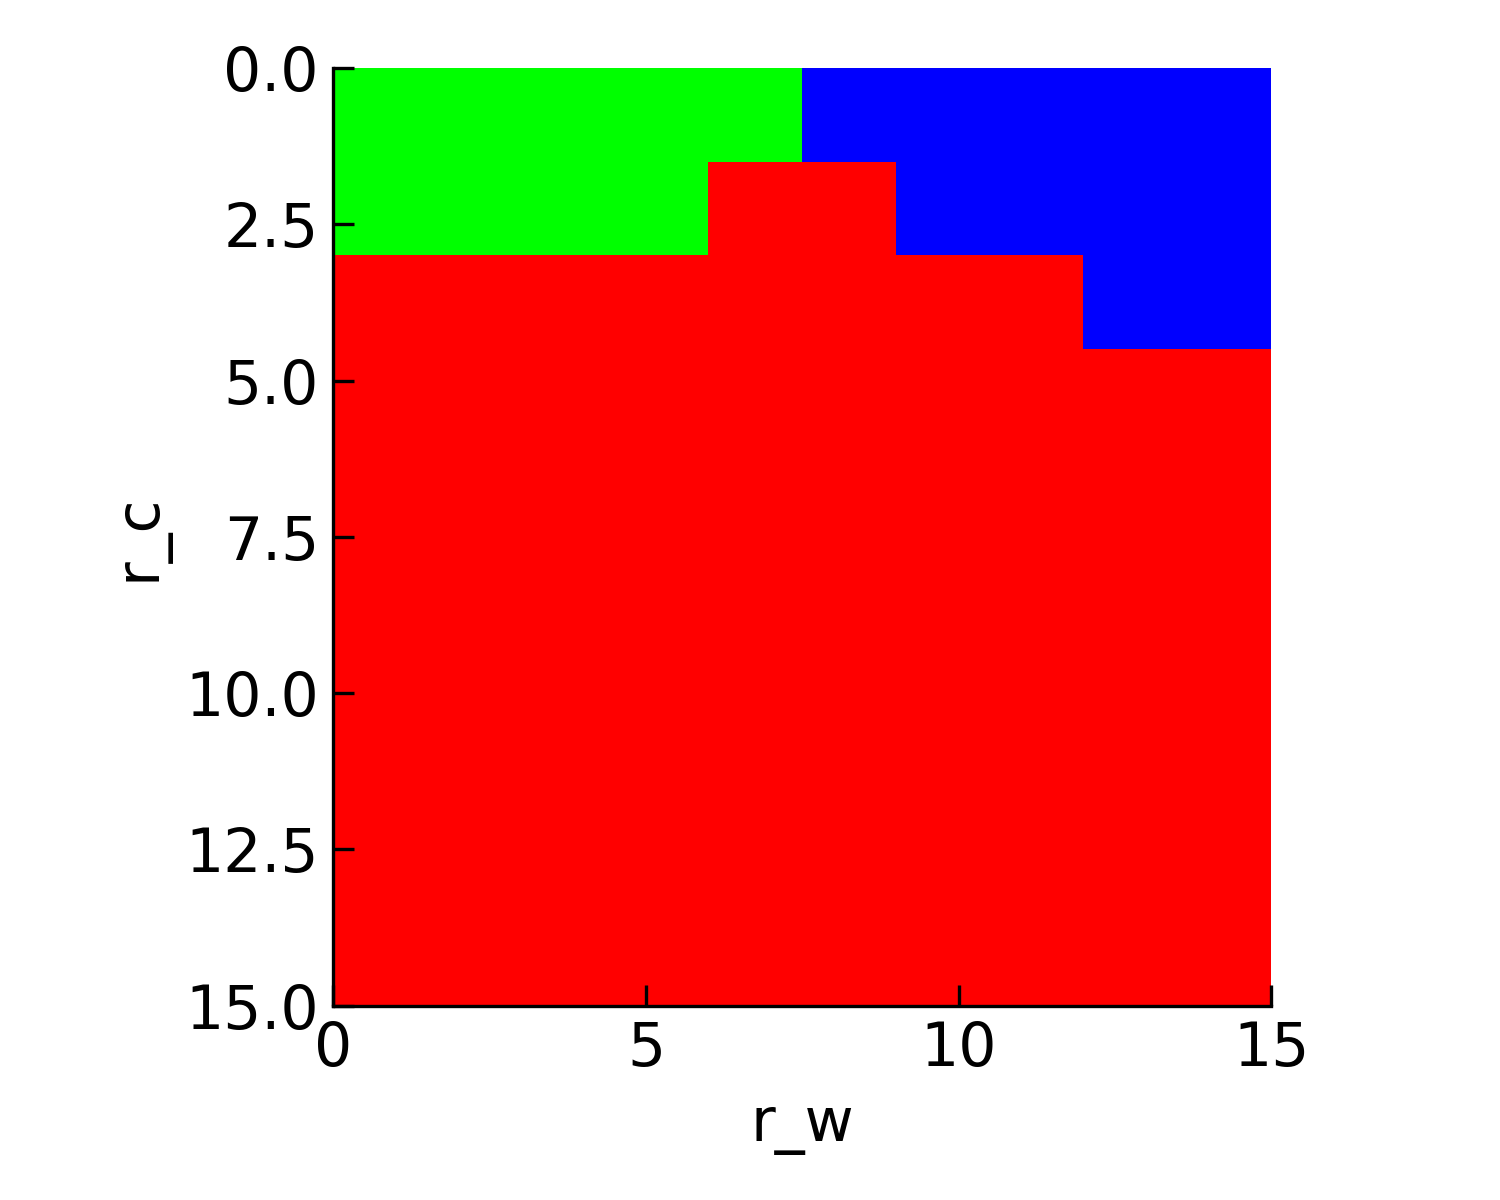
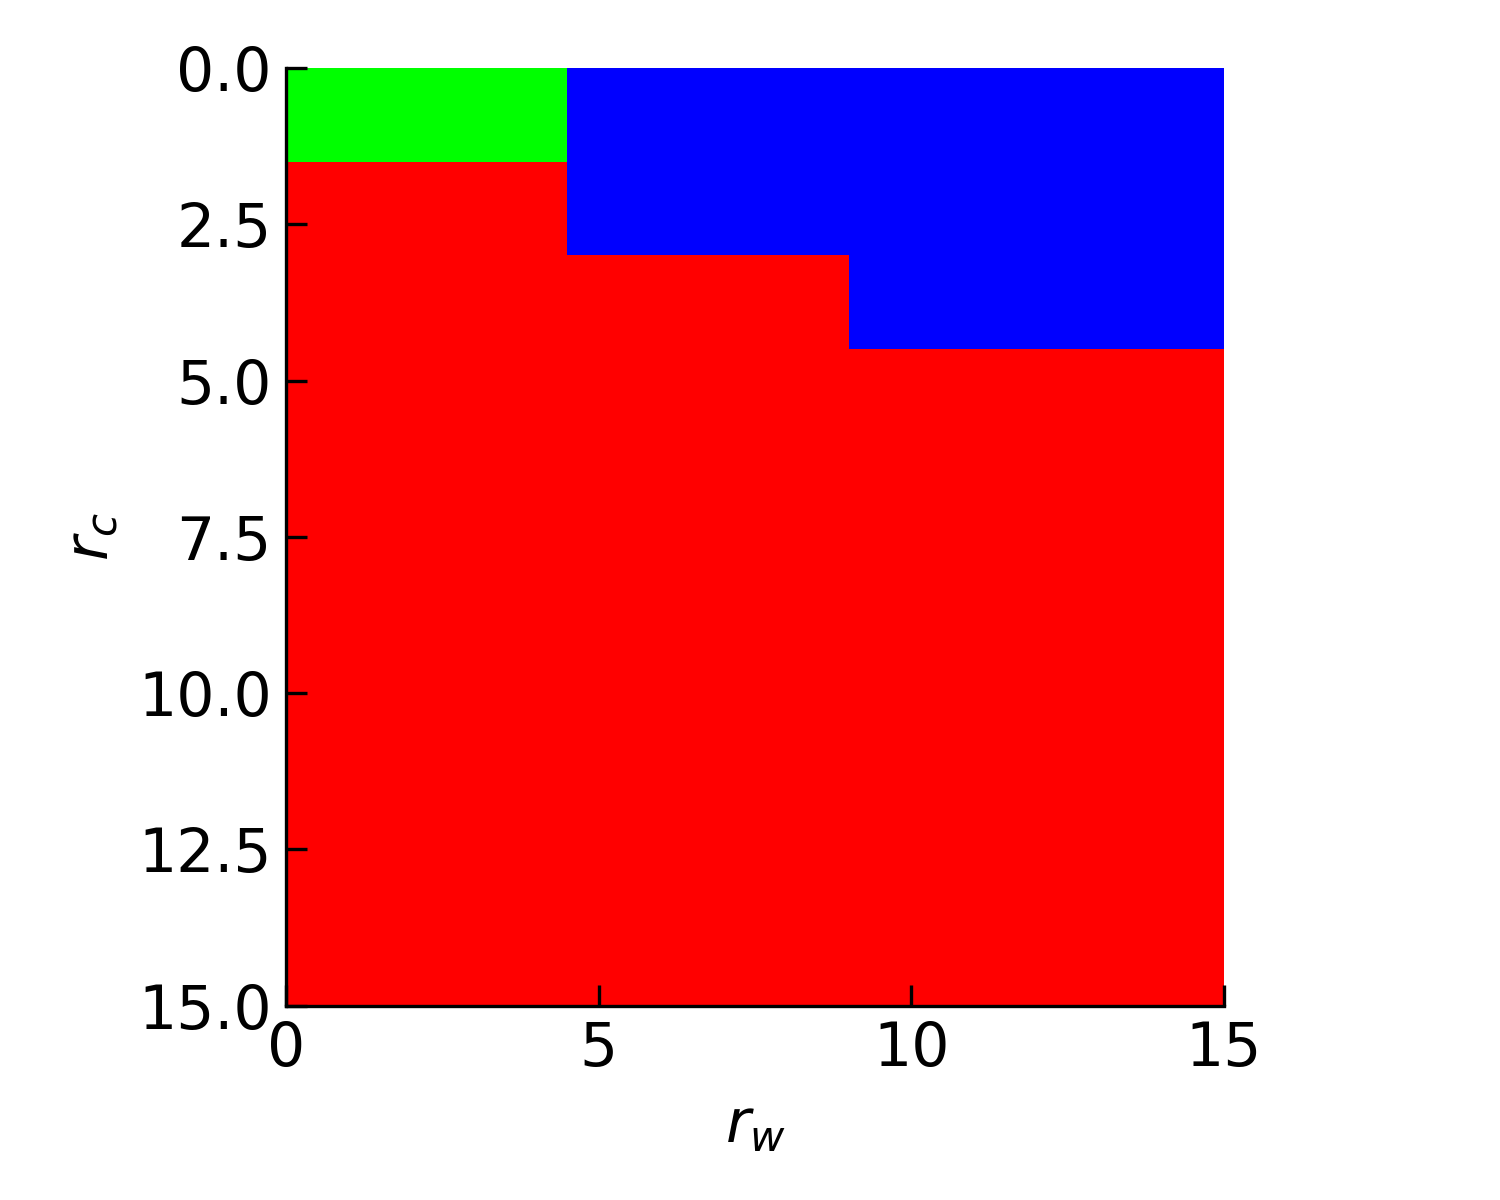
Updated latex plot

diff --git a/src/main.py b/src/main.py
@@ -52,8 +52,8 @@ if args.sim_mart_vaq:
     # First convert to gt
     meta_sim = MetaSimulator(
         network_name=nx_network.name,
-        ratio_honest=0.9,
-        ratio_wolf=0.01,
+        ratio_honest=0.33,
+        ratio_wolf=0.33,
         random_fit_init=False,
     )
 
@@ -62,13 +62,13 @@ if args.sim_mart_vaq:
         delta=0.7,  # no acting for wolfs
         gamma=0.8,
         tau=0.1,  # no fitness sharing between wolf to criminal
-        beta_s=1.5,
-        beta_h=1.5,
-        beta_c=1.5,
+        beta_s=5,
+        beta_h=5,
+        beta_c=5,
         c_c=1,  # no benefits from criminals/ they still act
-        r_c=1,
+        r_c=0,
         c_w=1,
-        r_w=1,
+        r_w=15,
         r_h=1,
         temperature=10,
         mutation_prob=0.0001,  # only fermi function
@@ -152,20 +152,25 @@ if args.phase_diagram:
         "4": "delta",
         "5": "gamma",
         "6": "tau",
+        "7": "r_w",
+        "8": "r_c",
     }
 
     print("Which parameters to test? Please give a number:")
     for k, v in parameter_dict.items():
-
         print(f"{k:<2}|{v:<15}")
-    param_1 = input("Parameter 1:")
-    param_2 = input("Parameter 2:")
+    param_x = input("Parameter 1:\n")
+    param_y = input("Parameter 2:\n")
+    x_input = input("Range of parameter 1:  example: 0,5\n")
+    x_input_tpl = tuple(int(x) for x in x_input.split(","))
+    y_input = input("Range of parameter 2:  example: 0,5\n")
+    y_input_tpl = tuple(int(x) for x in y_input.split(","))
 
-    assert param_1 != param_2, " Parameter can't be the same!"
+    assert param_x != param_y, " Parameter can't be the same!"
     # create a mesh grid
-    nx, ny = (15, 15)
-    x_range = np.linspace(0, 1, nx)
-    y_range = np.linspace(0, 1, ny)
+    nx, ny = (10, 10)
+    x_range = np.linspace(x_input_tpl[0], x_input_tpl[1], nx)
+    y_range = np.linspace(y_input_tpl[0], y_input_tpl[1], ny)
     grid = np.empty((nx, ny), dtype=object)
 
     # init simulation
@@ -177,15 +182,15 @@ if args.phase_diagram:
 
     meta_sim = MetaSimulator(
         network_name=nx_network.name,
-        ratio_honest=0.9,
-        ratio_wolf=0.01,
-        random_fit_init=True,
+        ratio_honest=0.33,
+        ratio_wolf=0.33,
+        random_fit_init=False,
     )
     for x_i in range(0, nx):
         for y_i in range(0, ny):
             variable_dict = dict(
                 zip(
-                    [parameter_dict[param_1], parameter_dict[param_2]],
+                    [parameter_dict[param_x], parameter_dict[param_y]],
                     [x_range[x_i], y_range[y_i]],
                 )
             )
@@ -194,19 +199,54 @@ if args.phase_diagram:
                 **variable_dict,
                 mutation_prob=0.0001,  # only fermi function
             )
-            network, data_collector = simulators.play(
-                network=simulators.network, rounds=3000, n_groups=1, ith_collect=3000
+            data_collector = simulators.avg_play(
+                network=simulators.network,
+                rounds=7500,
+                n_groups=1,
+                ith_collect=7500,
+                repetition=5,
             )
 
             # Only look at the ratio and get the status with the highest ratio at the end
             filtered_dict = {
                 k: v
                 for k, v in data_collector.items()
-                if k in ["ratio_criminal", "ratio_wolf", "ratio_honest"]
+                if k in ["mean_ratio_criminal", "mean_ratio_wolf", "mean_ratio_honest"]
             }
-            print(max(filtered_dict, key=lambda x: filtered_dict[x][-1]))
-            grid[x_i, y_i] = max(filtered_dict, key=lambda x: filtered_dict[x][-1])
 
-    plotter.plot_phase_diag(
-        grid, x_range, y_range, parameter_dict[param_1], parameter_dict[param_2]
+            grid[x_i, y_i] = max(filtered_dict, key=lambda x: filtered_dict[x][-1])
+            print(grid[x_i, y_i])
+
+    ax = plotter.plot_phase_diag(
+        grid, x_range, y_range, parameter_dict[param_x], parameter_dict[param_y]
     )
+
+    if args.save:
+        e = datetime.datetime.now()
+        timestamp = e.strftime("%d-%m-%Y-%H-%M")
+        simulators_str_dict = dict(
+            {str(key): str(value) for key, value in simulators.__dict__.items()}
+        )
+        meta_str_sim = dict(
+            {str(key): str(value) for key, value in meta_sim.__dict__.items()}
+        )
+        meta = PngImagePlugin.PngInfo()
+        for x in simulators_str_dict:
+            meta.add_text(x, simulators_str_dict[x])
+
+        fig_name = (
+            plotter.savig_dir
+            + "phase_diag_"
+            + param_x
+            + "_"
+            + param_y
+            + "_"
+            + timestamp
+            + ".png"
+        )
+        plt.savefig(fig_name, dpi=300)
+        # Add the meta to it
+        im = Image.open(fig_name)
+        im.save(fig_name, "png", pnginfo=meta)
+    else:
+        plt.show()

diff --git a/src/utils/plotter.py b/src/utils/plotter.py
@@ -38,6 +38,10 @@ class Plotter(ConfigParser):
         plt.rcParams["xtick.minor.size"] = 3.0
         plt.rcParams["ytick.major.size"] = 5.0
         plt.rcParams["ytick.minor.size"] = 3.0
+        plt.rcParams["axes.labelsize"] = "x-large"
+        plt.rcParams["axes.titlesize"] = "x-large"
+        plt.rcParams["xtick.labelsize"] = "x-large"
+        plt.rcParams["ytick.labelsize"] = "x-large"
 
         # Change the default color list
         mpl.rcParams["axes.prop_cycle"] = cycler(color="gbrgmyc")
@@ -256,8 +260,8 @@ class Plotter(ConfigParser):
         grid: np.ndarray,
         x_range: np.ndarray,
         y_range: np.ndarray,
-        param1: str,
-        param2: str,
+        param_x: str,
+        param_y: str,
     ) -> plt.Axes:
         """Generate a phase diagram of param1 and param2.
 
@@ -268,8 +272,8 @@ class Plotter(ConfigParser):
                                     each combination of param1 and param2
             x_range (np.ndarray) : range of x
             y_range (np.ndarray) : range of
-            param1 (str): parameter 1 of the model
-            parma2 (str): parameter 2 of the model
+            param_x (str): parameter x of the model
+            parma_y (str): parameter y of the model
 
         Returns:
             plt.Axes: phase diagram figure
@@ -278,33 +282,36 @@ class Plotter(ConfigParser):
         rgb_array = np.zeros((grid.shape[0], grid.shape[1], 3), dtype=int)
         for x_i in range(0, grid.shape[0]):
             for y_i in range(0, grid.shape[1]):
-                if grid[x_i, y_i] == "ratio_criminal":
+                if grid[x_i, y_i] == "mean_ratio_criminal":
                     rgb_array[x_i, y_i, 0] = 255
                     rgb_array[x_i, y_i, 1] = 0
                     rgb_array[x_i, y_i, 2] = 0
-                elif grid[x_i, y_i] == "ratio_wolf":
+                elif grid[x_i, y_i] == "mean_ratio_wolf":
                     rgb_array[x_i, y_i, 0] = 0
                     rgb_array[x_i, y_i, 1] = 0
                     rgb_array[x_i, y_i, 2] = 255
-                elif grid[x_i, y_i] == "ratio_honest":
+                elif grid[x_i, y_i] == "mean_ratio_honest":
                     rgb_array[x_i, y_i, 0] = 0
                     rgb_array[x_i, y_i, 1] = 255
                     rgb_array[x_i, y_i, 2] = 0
 
-        print(grid)
-        print(rgb_array)
         _, ax = plt.subplots()
         ax.imshow(
-            rgb_array, extent=[min(x_range), max(x_range), max(y_range), min(y_range)]
+            rgb_array, extent=[min(y_range), max(y_range), max(x_range), min(x_range)]
         )
 
         cmap = {1: [1, 0, 0, 1], 3: [0, 1, 0, 1], 2: [0, 0, 1, 1]}
         labels = {1: "criminal", 2: "lone wolf", 3: "honest"}
         # create patches as legend
         patches = [mpatches.Patch(color=cmap[i], label=labels[i]) for i in cmap]
-
-        ax.set_xlabel(param1)
-        ax.set_ylabel(param2)
-        ax.set_title("Phase diagram")
         plt.legend(handles=patches)
-        plt.show()
+
+        # Add the \ to the param to print it in latex format
+        if param_x in ["beata_c", "beta_s", "beta_h", "delta", "tau", "gamma"]:
+            param_x = "\\" + param_x
+        if param_y in ["beata_c", "beta_s", "beta_h", "delta", "tau", "gamma"]:
+            param_y = "\\" + param_y
+
+        ax.set_xlabel(fr"${param_y}$")
+        ax.set_ylabel(fr"${param_x}$")
+        return ax

diff --git a/src/simulators/sim_mart_vaq.py b/src/simulators/sim_mart_vaq.py
@@ -41,8 +41,8 @@ class SimMartVaq:
         self,
         network: gt.Graph,
         delta: float = 0.7,
-        tau: float = 0.8,
-        gamma: float = 0.1,
+        tau: float = 0.1,
+        gamma: float = 0.8,
         beta_s: int = 5,
         beta_h: int = 5,
         beta_c: int = 5,
